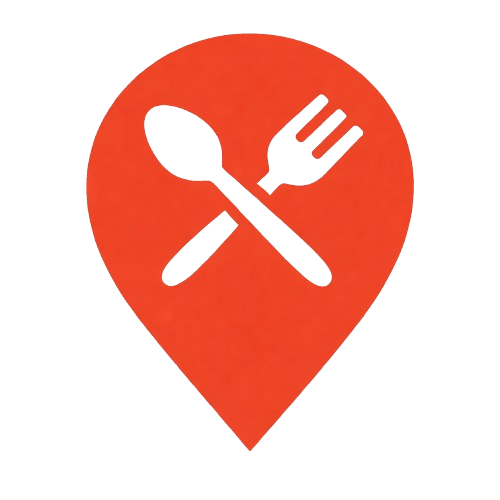
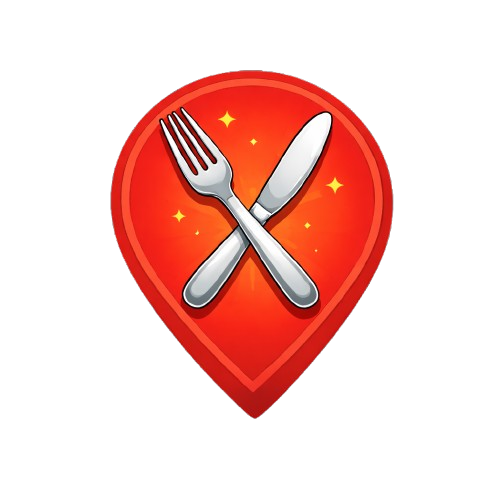
Novos png-icones adcionados para o mapa

Changed region(s): [[0.15, 0.06, 0.84, 0.9]]

diff --git a/frontend/src/mapa_personalizado/scripts/functions.js b/frontend/src/mapa_personalizado/scripts/functions.js
@@ -57,8 +57,8 @@ function renderLabels(features) {
             labelMarker = L.marker(latLng, {
                 icon: L.icon({
                     iconUrl: 'documents/imgs/assets/comercio-icon.png', 
-                    iconSize: [32, 32], 
-                    iconAnchor: [16, 32],
+                    iconSize: [44, 44], 
+                    iconAnchor: [24, 38],
                     popupAnchor: [0, -32]
                 }),
                 interactive: true 
